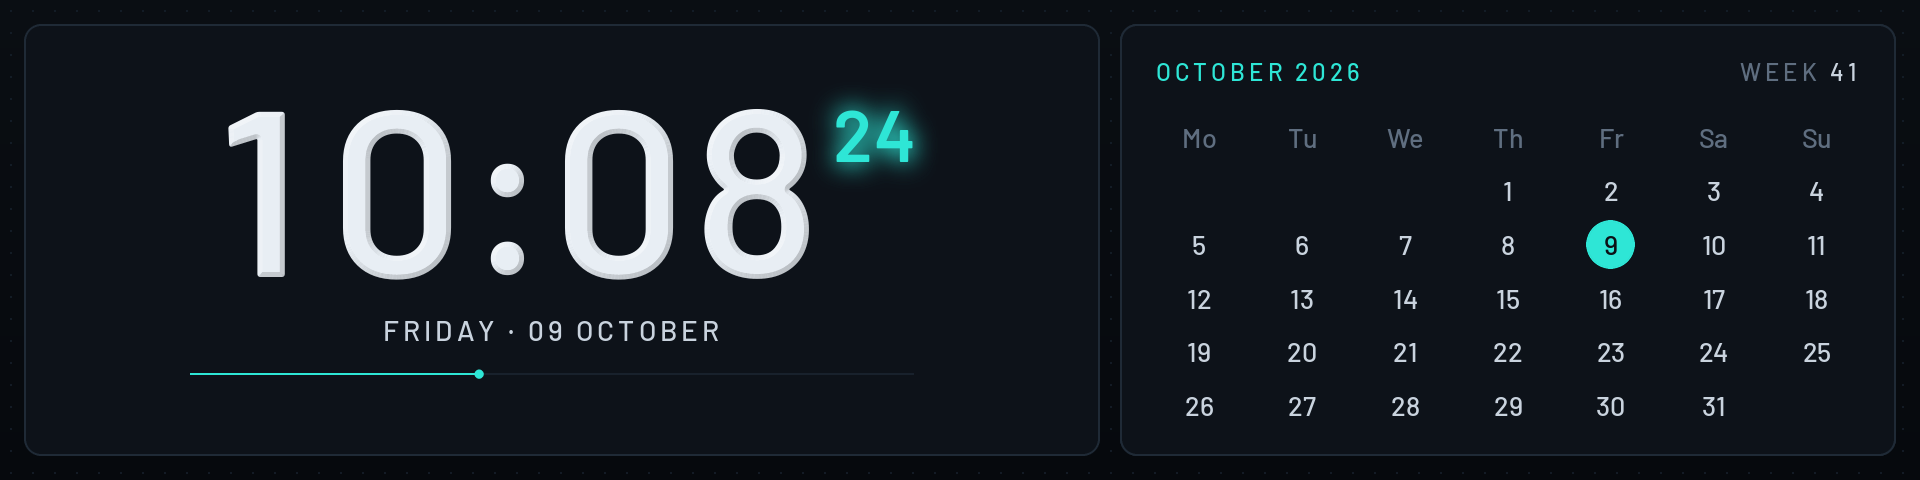
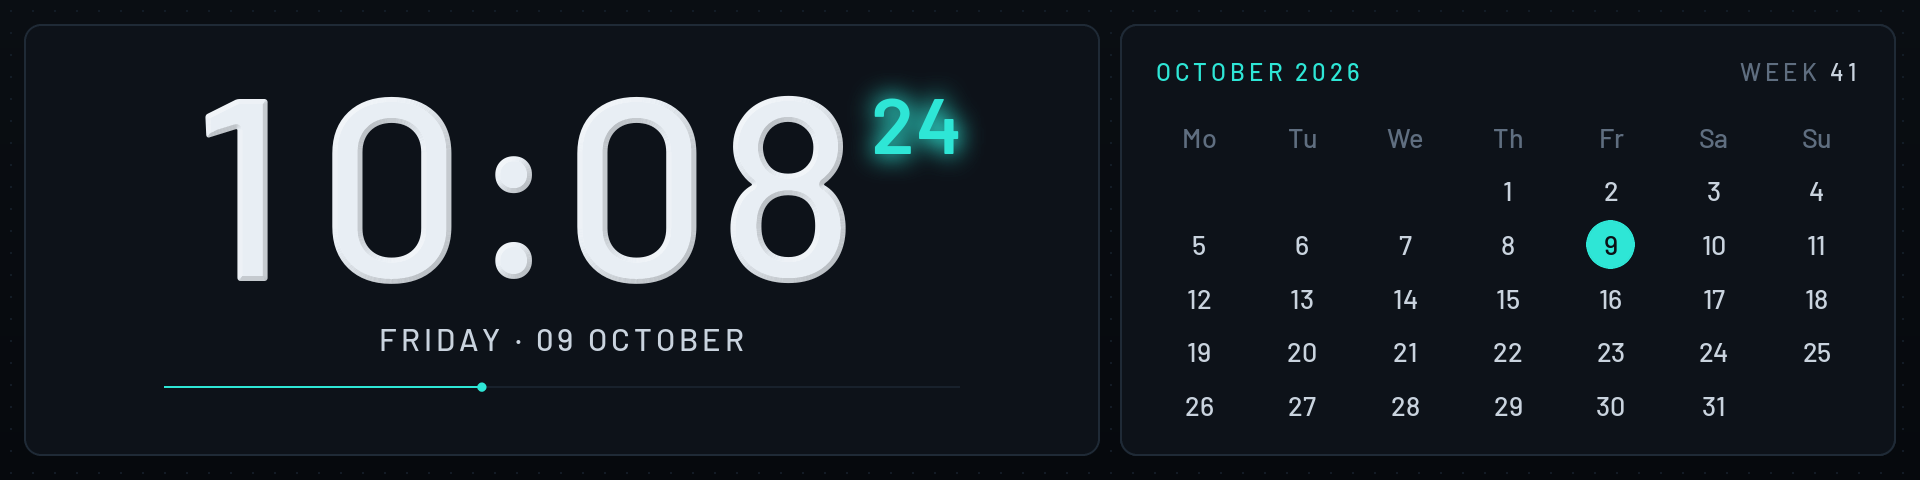
The screens use their room, and no name is cut short
The playing card sets its title, artist and player larger in the middle of the room
between the state and the progress; Almanac's clock grows a tenth, Almanac Analog's day
and date line up under the digits; a roomy clock module runs the seconds along a line
under the date; the processes card shows four rows, in one column where narrow; Lumen on
the 5.2" frames its fans above the download; the clock face gets a faint rim. The network
details say IP, Down, Up, Received and Sent where the full names ended in dots, Lumen's
fan names on the 5.2" fit, and the agents say for how long each has been in its state.

diff --git a/src/libre_panel/theme/modules.py b/src/libre_panel/theme/modules.py
@@ -764,6 +764,11 @@ def build_clock(b: _Build, _src: Source) -> None:
     size = min(b.ih / (1 + date_ratio * 2.2), b.iw / (clock_width + (0.62 if seconds else 0)))
     date_size = max(8, size * date_ratio)
     block = CAP * size + date_size * 1.1 + CAP * date_size
+    # the seconds run along a line under the date where the card has room (Almanac's)
+    line = b.ih - block > size * 0.9
+    line_h, line_gap = max(2, round(size * 0.012)), date_size * 1.6
+    if line:
+        block += line_gap + line_h
     top = b.iy + (b.ih - block) / 2
     left = a >= 1.45
     x = b.ix if left else b.ix + b.iw / 2
@@ -776,8 +781,18 @@ def build_clock(b: _Build, _src: Source) -> None:
         b.clock("seconds", "%S", sx, top, size * 0.36, color=b.c("accent"),
                 glow=round(0.7 * b.glow, 2), glow_radius=max(2, round(size / 16)))  # fmt: skip
     fmt = "%A · %d %B" if b.iw > size * 4.2 else "%a %d %b"
-    b.clock("date", fmt, x, top + CAP * size + date_size * 1.1, date_size, color=b.c("text2"),
-            align=align, width=b.iw, font="text_font", tabular=False)  # fmt: skip
+    date_top = top + CAP * size + date_size * 1.1
+    b.clock("date", fmt, x, date_top, date_size, color=b.c("text2"), align=align, width=b.iw,
+            font="text_font", tabular=False)  # fmt: skip
+    if line:
+        line_w = clock_width * size + (size * 0.62 if seconds else 0)
+        lx = x if left else x - line_w / 2
+        ly = date_top + CAP * date_size + line_gap
+        b.add("rect", "seconds-groove", x=round(lx), y=round(ly), w=round(line_w), h=line_h,
+              color=b.c("track"))  # fmt: skip
+        b.add("bar", "seconds-run", x=round(lx), y=round(ly), w=round(line_w), h=line_h,
+              sensor="time.second", min=0, max=60, color=b.c("accent"), background=None,
+              radius=0, smooth=False, end_dot=round(line_h * 2.25, 1))  # fmt: skip
 
 
 def build_date(b: _Build, _src: Source) -> None:
@@ -1954,9 +1969,12 @@ def build_processes(b: _Build, _src: Source) -> None:
             color=b.c("text3"), align="right")  # fmt: skip
     x, y, w, h = b.ix, b.iy + top, b.iw, b.ih - top
     bars = (b.large or b.aspect <= 0.72) and h > b.ts * 10
+    # rows a little smaller than the bars, so four fit a short card; a narrow card keeps
+    # them in one column, the few that matter large enough to read
     b.listing("processes", "proc.mem.*.value" if memory else "proc.cpu.*.value", x, y, w, h,
-              color, "bars" if bars else "rows", format="{value:.1f}%", min=0, max=0,
-              uppercase=False, empty=t("Waiting for the first count …"))  # fmt: skip
+              color, "bars" if bars else "rows", b.ts * (1.3 if bars else 1.15),
+              columns=1 if not bars and b.iw < b.ts * 30 else 0, format="{value:.1f}%",
+              min=0, max=0, uppercase=False, empty=t("Waiting for the first count …"))  # fmt: skip
 
 
 def build_values(b: _Build, _src: Source) -> None:
@@ -1979,14 +1997,16 @@ def build_netinfo(b: _Build, _src: Source) -> None:
     b.card()
     color = b.tint("net")
     top = b.head("network", b.module["title"] or t("Network"), color)
-    items = "\n".join(
-        f"{key} = {name}"
-        for key, name in (
-            ("net.ip", t("IP address")), ("net.ping", t("Ping")),
-            ("net.down", t("Download")), ("net.up", t("Upload")),
-            ("net.today.down", t("Received today")), ("net.today.up", t("Sent today")),
-        )
+    # the names in full where the rows are wide; short where they would be cut
+    narrow = b.iw < b.ts * 30
+    names = (
+        ("net.ip", "IP" if narrow else t("IP address")), ("net.ping", t("Ping")),
+        ("net.down", t("Down") if narrow else t("Download")),
+        ("net.up", t("Up") if narrow else t("Upload")),
+        ("net.today.down", t("Received") if narrow else t("Received today")),
+        ("net.today.up", t("Sent") if narrow else t("Sent today")),
     )  # fmt: skip
+    items = "\n".join(f"{key} = {name}" for key, name in names)
     x, y, w, h = b.ix, b.iy + top, b.iw, b.ih - top
     graph = (b.large or b.aspect <= 0.72) and h > b.ts * 14
     rows_h = h * 0.62 if graph else h
@@ -2357,13 +2377,20 @@ def _ai_agent(b: _Build, name: str, x: float, y: float, w: float, h: float,
               needs=f"{key}.state={state}", max_width=round(tw), fit="shrink",
               **b._text_fields(size, cap, "display_font"))  # fmt: skip
     line = cap + CAP * size + small * 1.0
+    # since when it is so, at the right of the line, where the line is wide enough for both
+    since = align == "left" and tw >= small * 14
+    words_w = tw * 0.62 if since else tw
     b.value(f"{name}-tool", f"{key}.tool", "{value}", ax, line, small, color=calm, align=align,
-            width=tw, font="text_font", tabular=False, needs=f"{key}.state=working",
+            width=words_w, font="text_font", tabular=False, needs=f"{key}.state=working",
             fallback="", hide_if_missing=True)  # fmt: skip
     b.value(f"{name}-model", f"{key}.model", "{value}", ax, line, small, color=calm,
-            align=align, width=tw, font="text_font", tabular=False,
+            align=align, width=words_w, font="text_font", tabular=False,
             needs=f"{key}.state!=working,{key}.state!=off", fallback="",
             hide_if_missing=True)  # fmt: skip
+    if since:
+        b.value(f"{name}-since", f"{key}.since", "{value:duration}", tx + tw, line, small,
+                color=calm, align="right", width=tw * 0.34, font="text_font", tabular=False,
+                needs=f"{key}.state!=off", fallback="", hide_if_missing=True)  # fmt: skip
     row = line + small * 2.0
     bar_h = max(4, round(small * 0.5))
     # when a window begins anew, where it fits between the window's name and its share

diff --git a/src/libre_panel/theme/cards.py b/src/libre_panel/theme/cards.py
@@ -237,18 +237,20 @@ def build_playback(b: _Build, src: M.Source) -> None:
         b.label(name, text, left + ref.s(30), top, label, width=width - ref.s(30))
         _need(b.out[-1], f"media.playing={state}")
 
-    b.value("title", "media.title", "{value}", left, ref.cap(118, 40), ref.s(40), width=width,
+    # the title, the artist and the app, as a block in the middle of the room between the
+    # state and the progress
+    b.value("title", "media.title", "{value}", left, ref.cap(146, 44), ref.s(44), width=width,
             tabular=False, fallback="", fit="ellipsis", hide_if_missing=True)  # fmt: skip
-    b.value("artist", "media.artist", "{value}", left, ref.cap(160, 28), ref.s(28),
+    b.value("artist", "media.artist", "{value}", left, ref.cap(192, 30), ref.s(30),
             color=b.c("text2"), width=width, font="text_font", tabular=False, fallback="",
             fit="ellipsis", hide_if_missing=True)  # fmt: skip
 
     # the app that plays it: its icon, and its name
-    icon = ref.s(30)
-    b.add("image", "app-icon", x=round(left), y=round(ref.y(182)), w=icon, h=icon,
+    icon = ref.s(32)
+    b.add("image", "app-icon", x=round(left), y=round(ref.y(216)), w=icon, h=icon,
           src="@media.app_icon", fit="contain")  # fmt: skip
-    for name, shift, need in (("app", 40, "@media.app_icon"), ("app-bare", 0, "!@media.app_icon")):
-        b.value(name, "media.source", "{value}", left + ref.s(shift), ref.cap(206, 20), ref.s(20),
+    for name, shift, need in (("app", 42, "@media.app_icon"), ("app-bare", 0, "!@media.app_icon")):
+        b.value(name, "media.source", "{value}", left + ref.s(shift), ref.cap(240, 22), ref.s(22),
                 color=b.c("text3"), width=width - ref.s(shift), font="text_font",
                 tabular=False, fallback="", fit="ellipsis", hide_if_missing=True,
                 needs=need)  # fmt: skip

diff --git a/src/libre_panel/render/renderer.py b/src/libre_panel/render/renderer.py
@@ -2005,6 +2005,10 @@ class Renderer:
             draw.ellipse([cx - r, cy - r, cx + r - 1, cy + r - 1], fill=self.color(widget["face"]))
         if widget["marks"] and part != "hand":
             marks = self.color(widget["marks"])
+            # a faint rim, as the lit rings have an edge: the face stands off the card
+            rim = (*marks[:3], round(marks[3] * 0.4))
+            draw.ellipse([cx - r, cy - r, cx + r - 1, cy + r - 1], outline=rim,
+                         width=max(1, round(r * 0.012)))  # fmt: skip
             fine = min(w, h) >= 110
             for tick in range(60):
                 hourly = tick % 5 == 0

diff --git a/CHANGELOG.md b/CHANGELOG.md
@@ -1,5 +1,20 @@
 # Changelog
 
+## 0.7.1 — unreleased
+
+**Changes**
+- **The screens use their room**: the card of what plays (Lumen, Encore, every size) sets the
+  title, the artist and the player a size larger in the middle of the room between the state
+  and the progress; Almanac's clock is a tenth larger on the 9.2" and 12.3", and Almanac
+  Analog's day and date stand under its digits; a clock module with room to spare runs the
+  seconds along a line under the date, as Almanac does (Agents); the processes card shows four
+  rows where it showed three, in one column where it is narrow; Lumen on the 5.2" gives its
+  fans a card of their own above the download; the clock face has a faint rim
+- **Names no longer cut short**: the network details module says "IP", "Down", "Up",
+  "Received" and "Sent" where the full names would end in dots, and Lumen's fan names on the
+  5.2" have the room they need
+- **Agents** say for how long each one has been working, waiting or idle, beside the tool
+
 ## 0.7.0 — 2026-10-22
 
 Up to four panels at once, placed where they stand: a companion screen beside the first that
